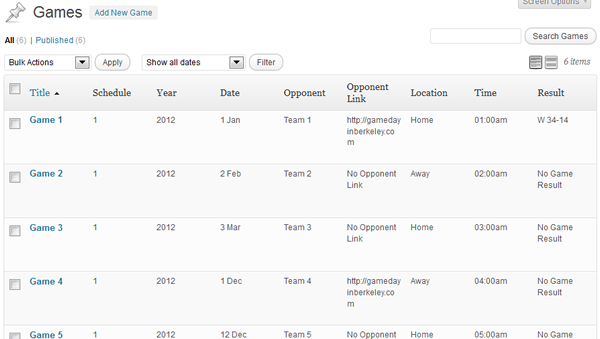
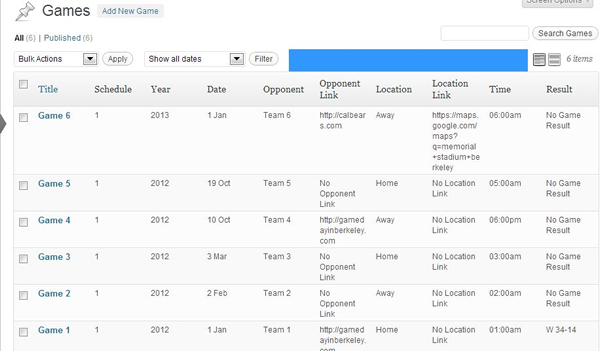
Commit version 2.1.
git-svn-id: https://plugins.svn.wordpress.org/game-schedules/trunk@621355 b8457f37-d9ea-0310-8a92-e5e31aec5664

diff --git a/css/mstw-gs-styles.css b/css/mstw-gs-styles.css
@@ -31,6 +31,9 @@
  * 20121019-MAO:
  *	Cleaned up for version 2.0 release
  *
+ * 20121104-MAO:
+ *	Fixed some problems with 'default' values.
+ *
  */
  
 /******************************************************/
@@ -44,13 +47,13 @@
 
 /* Set the table header attributes */
 .mstw-gs-table-head thead,  .mstw-gs-table-head tr, .mstw-gs-table-head th {
-    background: #4f81bd!important;
-    color: #fff!important;
+    background-color: #4f81bd;
+    color: #fff;
 	font-size: 12px;
 	font-weight: bold;
 	border-spacing: 0px;
     border: 2px solid white;  /* So the border does not appear */
-    padding: 2px!important;
+    padding: 2px;
 }
 
 /* Set the home row attributes */
@@ -117,11 +120,11 @@
 
 /* Set the table header attributes */
 .mstw-gs-sw-tab-head thead,  .mstw-gs-sw-tab-head tr, .mstw-gs-sw-tab-head th {
-    background: #4f81bd!important;
-    color: #fff!important;
+    background: #4f81bd;
+    color: #fff;
 	border-spacing: 0px;
     border: 2px solid white;  /* So the border does not appear */
-    padding: 2px 5px 2px 3px!important;
+    padding: 2px 5px 2px 3px;
 }
 
 /* Set the even row attributes */
@@ -137,7 +140,7 @@
 /* Set the even links */
 .mstw-gs-sw-even td a,  .mstw-gs-sw-even td a:visited, .mstw-gs-sw-even td a:active, .mstw-gs-sw-even td a:hover {
     text-decoration: underline;
-    color: #000064;
+    color: #fff;
 }
 
 /* Set the odd row attributes */
@@ -200,5 +203,5 @@
 
 .mstw-gs-cdt-countdown{
 	color: #000;
-	background: #fef600;
+	background: #d6d666;
 }

diff --git a/mstw-game-schedule.php b/mstw-game-schedule.php
@@ -3,7 +3,7 @@
 Plugin Name: Game Schedule
 Plugin URI: http://wordpress.org/extend/plugins/
 Description: The Game Schedule Plugin defines a custom type - Scheduled Games - for use in the MySportTeamWebite framework. Generations a game schedule (html table) using a shortcode.
-Version: 2.0
+Version: 2.1
 Author: Mark O'Donnell
 Author URI: http://shoalsummitsolutions.com
 */
@@ -60,6 +60,13 @@ along with this program. If not, see <http://www.gnu.org/licenses/>.
  *	(4) Opponent_link field was added.
  *	(5)	See readme for more details.
  *
+ * 20121103-MAO:
+ *	(1)	Fixed bug with opponent links. 
+ *	(2) Fixed bug with enqueueing stylesheet.
+ *
+ * 20121104-MAO:
+ *	(1) Added location_link field. Links from the location entries of games.
+ *
  * ------------------------------------------------------------------------*/
 
 /* ------------------------------------------------------------------------
@@ -71,12 +78,16 @@ along with this program. If not, see <http://www.gnu.org/licenses/>.
 	date_default_timezone_set('America/Los_Angeles');
 
 // This is temporary until we create options (someday)
-	// For the dashboard/metabox
-	$mstw_gs_dtg_format =  "m.d.y"; // 'j M'; 
+	//Date column of the widget's table
+	$mstw_gs_dtg_format =  'j M y';
+	// For the dashboard/metabox - don't need the year, it's already displayed.
+	$mstw_dash_dtg_format =  'j M'; 	
 	// For the countdown timer; game time with a time
-	$mstw_gs_cdt_time_format = "m.d.y H:i"; //"l, j M g:i a";
+	$mstw_gs_cdt_time_format = "l, j M g:i a";
 	// For the countdown timer; game time with only a game date (no time)
-	$mstw_gs_cdt_tbd_format = "m.d.y";//"l, j M";
+	$mstw_gs_cdt_tbd_format = "l, j M";
+	//Date column of the widget's table
+	$mstw_gs_sw_dtg_format = 'd M y'; 
 	
 // Months array for <select>/<option> statement in UI
 	$mstw_gs_months = array ( 	'Jan', 'Feb', 'Mar', 'Apr',
@@ -205,7 +216,8 @@ function mstw_gs_add_options_page( ) {
 }
 
 /* Queue up the necessary CSS */
-add_action( 'wp_head', 'mstw_gs_enqueue_styles' );
+/* add_action( 'wp_head', 'mstw_gs_enqueue_styles' ); */
+add_action( 'wp_enqueue_scripts', 'mstw_gs_enqueue_styles' );
 
 // ------------------------------------------------------------------------------
 // Callback for: add_action( 'wp_head', 'mstw_gs_enqueue_styles' );
@@ -216,18 +228,22 @@ function mstw_gs_enqueue_styles () {
 	
 	/* Find the full path to the css file */
 	$mstw_gs_style_url = plugins_url('/css/mstw-gs-styles.css', __FILE__);
-	$mstw_gs_style_file = WP_PLUGIN_DIR . '/mstw-game-schedule/css/mstw-gs-styles.css';
+	$mstw_gs_style_file = WP_PLUGIN_DIR . '/game-schedules/css/mstw-gs-styles.css';
 	
-	/* If cssfile exists, register & enqueue the style */
+	wp_register_style( 'mstw_gs_style', plugins_url('/css/mstw-gs-styles.css', __FILE__) );
 	
-	if ( file_exists( $mstw_gs_style_file ) ) {
+	//echo 'file url: ' . $mstw_gs_style_url . "\n";
+	//echo 'file name: ' . $mstw_gs_style_file . "\n";
+	
+	/* If stylesheet exists, enqueue the style */
+	if ( file_exists( $mstw_gs_style_file ) ) {	
+		wp_enqueue_style( 'mstw_gs_style' );			
 		
-		//echo 'CSS File ' . $mstw_gs_style_file . ' Exists' . '<br/>';
-		wp_enqueue_style( 'mstw_gs_style', $mstw_gs_style_url );	
-		
-	}
+	} 
+	/*else {
+		echo $mstw_gs_style_file . ' does not exist' . "\n";
+	} */
 
-	//}
 }
 
 
@@ -321,6 +337,7 @@ function mstw_gs_create_ui( $post ) {
 	$mstw_gs_opponent = get_post_meta( $post->ID, '_mstw_gs_opponent', true );
 	$mstw_gs_opponent_link = get_post_meta( $post->ID, '_mstw_gs_opponent_link', true );
 	$mstw_gs_location = get_post_meta( $post->ID, '_mstw_gs_location', true );
+	$mstw_gs_location_link = get_post_meta( $post->ID, '_mstw_gs_location_link', true );
 	$mstw_gs_home_game = get_post_meta( $post->ID, '_mstw_gs_home_game', true );
 	$mstw_gs_game_result = get_post_meta( $post->ID, '_mstw_gs_game_result', true );
 	 
@@ -375,13 +392,13 @@ function mstw_gs_create_ui( $post ) {
   
     <tr valign="top">
     	<th scope="row"><label for="mstw_gs_opponent" >Opponent:</label></th>
-        <td><input maxlength="40" size="30" name="mstw_gs_opponent"
+        <td><input maxlength="64" size="30" name="mstw_gs_opponent"
         	value="<?php echo esc_attr( $mstw_gs_opponent ); ?>"/></td>
     </tr>
 	
 	<tr valign="top">
     	<th scope="row"><label for="mstw_gs_opponent_link" >Opponent Link:</label></th>
-        <td><input maxlength="128" size="30" name="mstw_gs_opponent_link"
+        <td><input maxlength="256" size="30" name="mstw_gs_opponent_link"
         	value="<?php echo esc_attr( $mstw_gs_opponent_link ); ?>"/></td>
     </tr>
 	
@@ -391,47 +408,54 @@ function mstw_gs_create_ui( $post ) {
     </tr>
     <tr valign="top">
     	<th scope="row"><label for="mstw_gs_location" >Location:</label></th>
-        <td><input maxlength="40" size="30" name="mstw_gs_location"
+        <td><input maxlength="64" size="30" name="mstw_gs_location"
         	value="<?php echo esc_attr( $mstw_gs_location ); ?>"/></td>
-    </tr>   
+    </tr> 
+	
+	<tr valign="top">
+    	<th scope="row"><label for="mstw_gs_location_link" >Location Link:</label></th>
+        <td><input maxlength="256" size="30" name="mstw_gs_location_link"
+        	value="<?php echo esc_attr( $mstw_gs_location_link ); ?>"/></td>
+    </tr>
+		
     <tr valign="top">
     	<th scope="row"><label for="mstw_gs_game_time" >Game Time:<br/>Use hh:mm am </label></th>
-        <td><input maxlength="10" size="10" name="mstw_gs_game_time"
+        <td><input maxlength="16" size="10" name="mstw_gs_game_time"
         	value="<?php echo esc_attr( $mstw_gs_game_time ); ?>"/></td>
     </tr>
     <tr valign="top">
     	<th scope="row"><label for="mstw_gs_game_result" >Game Result: </label></th>
-        <td><input maxlength="10" size="10" name="mstw_gs_game_result"
+        <td><input maxlength="16" size="10" name="mstw_gs_game_result"
         	value="<?php echo esc_attr( $mstw_gs_game_result ); ?>"/></td>
     </tr>
     <tr valign="top">
     	<th scope="row"><label for="mstw_gs_media_label_1" >Media 1 Label:</label></th>
-        <td><input maxlength="60" size="30" name="mstw_gs_media_label_1"
+        <td><input maxlength="64" size="30" name="mstw_gs_media_label_1"
         	value="<?php echo esc_attr( $mstw_gs_media_label_1 ); ?>"/></td>
     </tr>
     <tr valign="top">
     	<th scope="row"><label for="mstw_gs_media_url_1" >Media 1 URL:</label></th>
-        <td><input maxlength="255" size="30" name="mstw_gs_media_url_1"
+        <td><input maxlength="256" size="30" name="mstw_gs_media_url_1"
         	value="<?php echo esc_attr( $mstw_gs_media_url_1 ); ?>"/></td>
     </tr>
     <tr valign="top">
     	<th scope="row"><label for="mstw_gs_media_label_2" >Media 2 Label:</label></th>
-        <td><input maxlength="60" size="30" name="mstw_gs_media_label_2"
+        <td><input maxlength="64" size="30" name="mstw_gs_media_label_2"
         	value="<?php echo esc_attr( $mstw_gs_media_label_2 ); ?>"/></td>
     </tr>
     <tr valign="top">
     	<th scope="row"><label for="mstw_gs_media_url_2" >Media 2 URL:</label></th>
-        <td><input maxlength="255" size="30" name="mstw_gs_media_url_2"
+        <td><input maxlength="256" size="30" name="mstw_gs_media_url_2"
         	value="<?php echo esc_attr( $mstw_gs_media_url_2 ); ?>"/></td>
     </tr>
     <tr valign="top">
     	<th scope="row"><label for="mstw_gs_media_label_3" >Media 3 Label:</label></th>
-        <td><input maxlength="60" size="30" name="mstw_gs_media_label_3"
+        <td><input maxlength="64" size="30" name="mstw_gs_media_label_3"
         	value="<?php echo esc_attr( $mstw_gs_media_label_3 ); ?>"/></td>
     </tr>
     <tr valign="top">
     	<th scope="row"><label for="mstw_gs_media_url_3" >Media 3 URL:</label></th>
-        <td><input maxlength="255" size="30" name="mstw_gs_media_url_3"
+        <td><input maxlength="256" size="30" name="mstw_gs_media_url_3"
         	value="<?php echo esc_attr( $mstw_gs_media_url_3 ); ?>"/></td>
     </tr>
     
@@ -530,6 +554,9 @@ function mstw_gs_save_meta( $post_id ) {
 	update_post_meta( $post_id, '_mstw_gs_location', 
 			strip_tags( $_POST['mstw_gs_location'] ) );
 			
+	update_post_meta( $post_id, '_mstw_gs_location_link', 
+			strip_tags( $_POST['mstw_gs_location_link'] ) );		
+			
 	update_post_meta( $post_id, '_mstw_gs_home_game', 
 			strip_tags( $_POST['mstw_gs_home_game'] ) );
 			
@@ -577,6 +604,7 @@ function mstw_gs_edit_columns( $columns ) {
 		'opponent' => __( 'Opponent' ),
 		'opponent_link' => __( 'Opponent Link' ),
 		'location' => __( 'Location' ),
+		'location_link' => __( 'Location Link' ),
 		'game_time' => __( 'Time' ),
 		'game_result' => __( 'Result' )
 		/* 'debug' => __('Debug-Remove') */
@@ -592,7 +620,7 @@ add_action( 'manage_scheduled_games_posts_custom_column', 'mstw_gs_manage_column
 // --------------------------------------------------------------------------------------
 function mstw_gs_manage_columns( $column, $post_id ) {
 	global $post;
-	global $mstw_gs_dtg_format;
+	global $mstw_dash_dtg_format;
 	global $mstw_domain; //Important for localization functions!
 	
 	/* echo 'column: ' . $column . " Post ID: " . $post_id; */
@@ -641,7 +669,7 @@ function mstw_gs_manage_columns( $column, $post_id ) {
 			if ( empty( $mstw_gs_unix_date ) )
 				_e( 'No Game Date', $mstw_domain );
 			else
-				echo( date( $mstw_gs_dtg_format, $mstw_gs_unix_date ) );
+				echo( date( $mstw_dash_dtg_format, $mstw_gs_unix_date ) );
 
 			break;
 		
@@ -670,7 +698,7 @@ function mstw_gs_manage_columns( $column, $post_id ) {
 			if ( empty( $mstw_gs_opponent_link ) )
 				_e( 'No Opponent Link', $mstw_domain );
 			else
-				printf( __( '%s' ), $mstw_gs_opponent_link );
+				printf( '%s', $mstw_gs_opponent_link );
 
 			break;
 			
@@ -687,6 +715,20 @@ function mstw_gs_manage_columns( $column, $post_id ) {
 
 			break;	
 			
+		/* If displaying the 'location_link' column. */
+			case 'location_link' :
+
+			/* Get the post meta. */
+			$mstw_gs_location_link = get_post_meta( $post_id, '_mstw_gs_location_link', true );
+
+
+			if ( empty( $mstw_gs_location_link ) )
+				_e( 'No Location Link', $mstw_domain );
+			else
+				printf( '%s', $mstw_gs_location_link );
+
+			break;
+			
 		/* If displaying the 'time' column. */
 		case 'game_time' :
 
@@ -696,7 +738,7 @@ function mstw_gs_manage_columns( $column, $post_id ) {
 			if ( empty( $mstw_gs_game_time ) )
 				_e( 'No Game Time', $mstw_domain );
 			else
-				printf( __( '%s' ), $mstw_gs_game_time );
+				printf( '%s', $mstw_gs_game_time );
 
 			break;	
 
@@ -825,7 +867,14 @@ function mstw_gs_build_sched_tab( $sched ) {
 			$row_string =  $row_string . $row_td . $mstw_gs_opponent_entry . '</td>';
 			
 			// column 3: create the location entry
-			$row_string =  $row_string . $row_td . get_post_meta( $post->ID, '_mstw_gs_location', true) . '</td>';
+			$mstw_gs_location_entry = get_post_meta( $post->ID, '_mstw_gs_location', true );
+			
+			// Check to see if you have to add the link
+			if ( ( $mstw_gs_location_link = get_post_meta( $post->ID, '_mstw_gs_location_link', true ) ) != '' ) {
+				$mstw_gs_location_entry = '<a href="' . $mstw_gs_location_link . '" target="_blank" >' . $mstw_gs_location_entry . '</a>';
+			}
+			
+			$row_string =  $row_string . $row_td . $mstw_gs_location_entry . '</td>';
 			
 			// column 4: create the time/results entry
 			if ( get_post_meta( $post->ID, '_mstw_gs_game_result', true) != '' ) {
@@ -973,6 +1022,7 @@ function mstw_gs_build_countdown( $sched, $intro, $home_only ) {
 				$opponent = get_post_meta( $game->ID, '_mstw_gs_opponent', true );
 				$opponent_link = get_post_meta( $game->ID, '_mstw_gs_opponent_link', true );
 				$location = get_post_meta( $game->ID, '_mstw_gs_location', true );
+				$location_link = get_post_meta( $game->ID, '_mstw_gs_location_link', true );
 				$game_time = get_post_meta( $game->ID, '_mstw_gs_game_time', true );
 				break; 
 			}
@@ -1009,11 +1059,18 @@ function mstw_gs_build_countdown( $sched, $intro, $home_only ) {
 		$opponent_entry = $opponent;
 		
 		//Check to see if you have to add the opponent link
-		if ( opponent_link != '' ) {
+		if ( $opponent_link != '' ) {
 			$opponent_entry = '<a href="' . $opponent_link . '" target="_blank" >' . $opponent_entry . '</a>';
 		}
 		
-		$ret_str = $ret_str . '<span class="mstw-gs-cdt-opponent">' . $opponent_entry . ' @ ' . $location .  '</span><br/>';
+		$location_entry = $location;
+		
+		//Check to see if you have to add the opponent link
+		if ( $location_link != '' ) {
+			$location_entry = '<a href="' . $location_link . '" target="_blank" >' . $location_entry . '</a>';
+		}
+		
+		$ret_str = $ret_str . '<span class="mstw-gs-cdt-opponent">' . $opponent_entry . ' @ ' . $location_entry .  '</span><br/>';
 		//$ret_str = $ret_str . '<span class="mstw-gs-cdt-opponent">' . $opponent . '</span><br/>';
 		
 		// Add the intro text set in shortcut arg or widget setting
@@ -1213,6 +1270,7 @@ class mstw_gs_sched_widget extends WP_Widget {
 	function widget( $args, $instance ) {
 	
 		global $mstw_domain; //Important for localization functions!
+		global $mstw_gs_sw_dtg_format; //format for the date column
 	
 		// $args holds the global theme variables, such as $before_widget
 		extract( $args );
@@ -1246,7 +1304,6 @@ class mstw_gs_sched_widget extends WP_Widget {
 	
    	 	// Make table of posts
 		if($posts) {
-			$mstw_gs_sw_dtg_format = 'd M'; //format for the date column
 					
 			// Start with the table header
         	$output = ''; ?>
